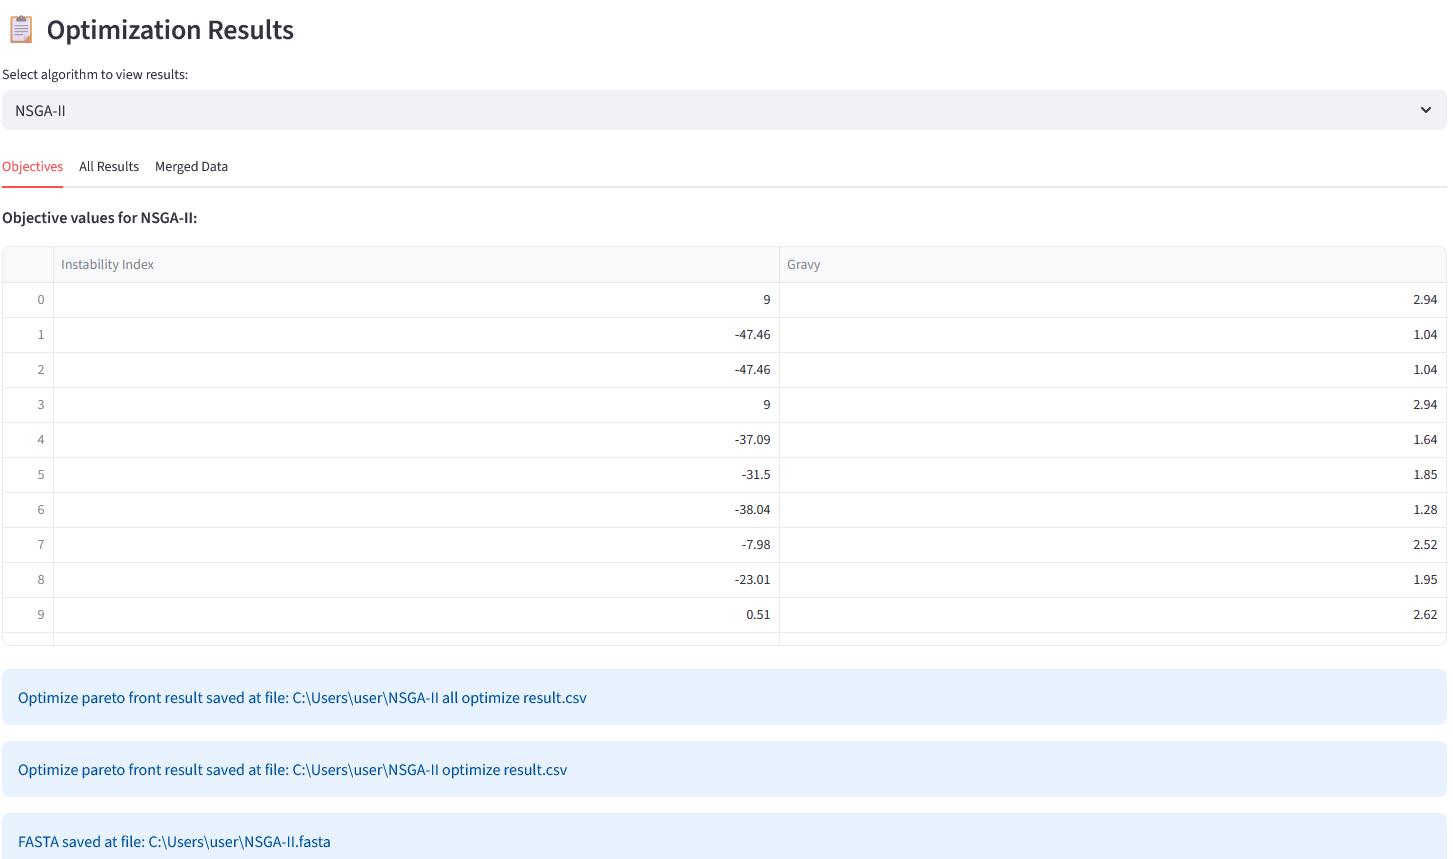
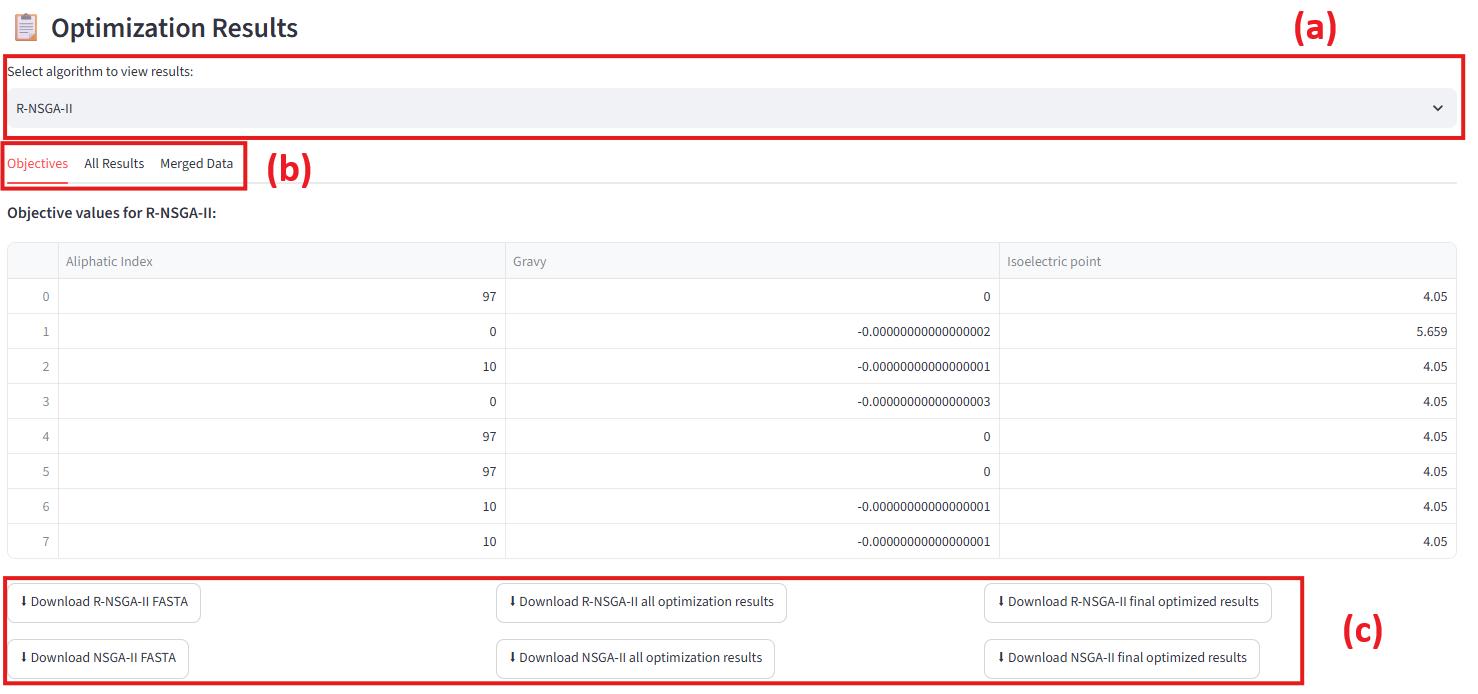
README.md

diff --git a/mo_amp_designer_app.py b/mo_amp_designer_app.py
@@ -598,7 +598,13 @@ with main_tab4:
                     """)
     st.image(os.path.join("figure", "Objectives to optimize.png"))
     st.markdown("""
-    ### 5. **Add Optional Constraints**
+        ### 5. **Setting Reference Point**
+        For R-NSGA-II/III algorithms, users may define a reference point in the objective space.  
+        The reference point guides the search toward user-preferred regions of the Pareto front.
+                    """)
+    st.image(os.path.join("figure", "Reference Point.png"))
+    st.markdown("""
+    ### 6. **Add Optional Constraints**
     Users may define upper/lower bounds to restrict the peptide search space.  
     For example:
     - Instability Index ≥ 40  
@@ -609,7 +615,7 @@ with main_tab4:
                 """)
     st.image(os.path.join("figure", "constraints.png"))
     st.markdown("""
-    ### 6. **Run Optimization**
+    ### 7. **Run Optimization**
     Press **“Run Optimization”** to execute the selected algorithms.  
     The app will:
     - Perform evolutionary optimization  
@@ -617,26 +623,32 @@ with main_tab4:
     - Identify non-dominated peptide solutions  
     - Cache results for further analysis  
 
-    ### 7. **View and Download Results**
+    ### 8. **View and Download Results**
     Results include:
     - Objective value tables
     - Full Pareto-optimal peptide lists
     - Merged physicochemical property profiles
     - FASTA files for external analysis  
     - CSV exports for downstream modeling
-
-    ### 8. **Visualize Optimization Outcomes**
-    You may generate:
-    - Multi-dimensional Pareto front plots  
-    - Amino acid composition heatmaps  
-    - Sequence-level physicochemical distribution analyses  
-
-    These visualizations provide insight into peptide behavior, trade-offs among descriptors, and optimization dynamics.
-                
                 """)
     st.image(os.path.join("figure", "run.png"))
     st.image(os.path.join("figure", "result.png"))
-    st.image(os.path.join("figure", "plot.png"))
+
+    st.markdown("""
+    ### 9. **Visualize Optimization Outcomes**
+    You may generate:
+    - Amino acid composition of Pareto-optimal sequences
+    - Scatter matrix plots for descriptor trade-offs
+    - Pareto front distribution plots
+    - Parallel-coordinate plots (When optimizing more than 3 objectives)
+
+    These visualizations provide insight into peptide behavior, trade-offs among descriptors, and optimization dynamics.
+                """)
+    
+    st.image(os.path.join("figure", "Amino acid composition.png"))
+    st.image(os.path.join("figure", "Scatter matrix.png"))
+    st.image(os.path.join("figure", "Pareto front.png"))
+    st.image(os.path.join("figure", "Parallel-coordinate.png"))
     st.markdown("""
     ### Summary
     This app provides a structured, multi-objective approach to AMP design by integrating algorithmic search, physicochemical evaluation, and biological constraint modeling. It aims to accelerate the rational development of antimicrobial peptides with optimized properties.
